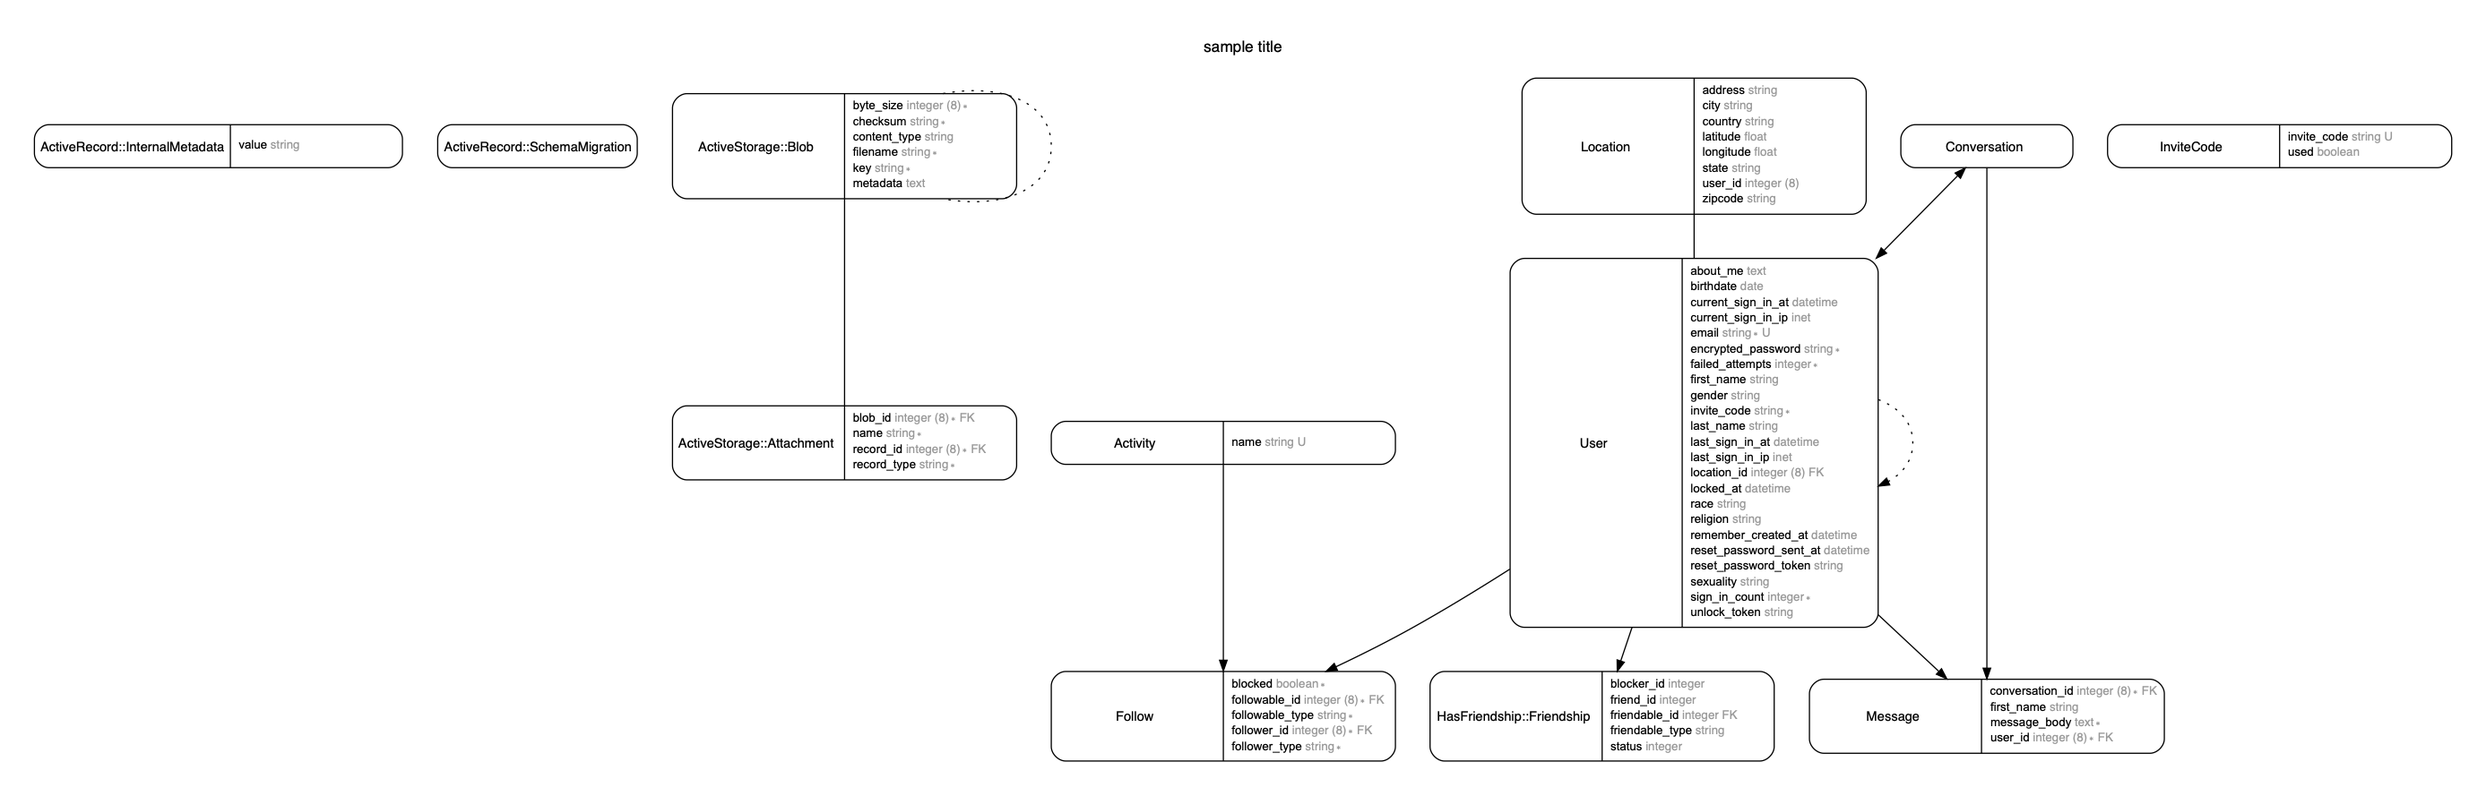
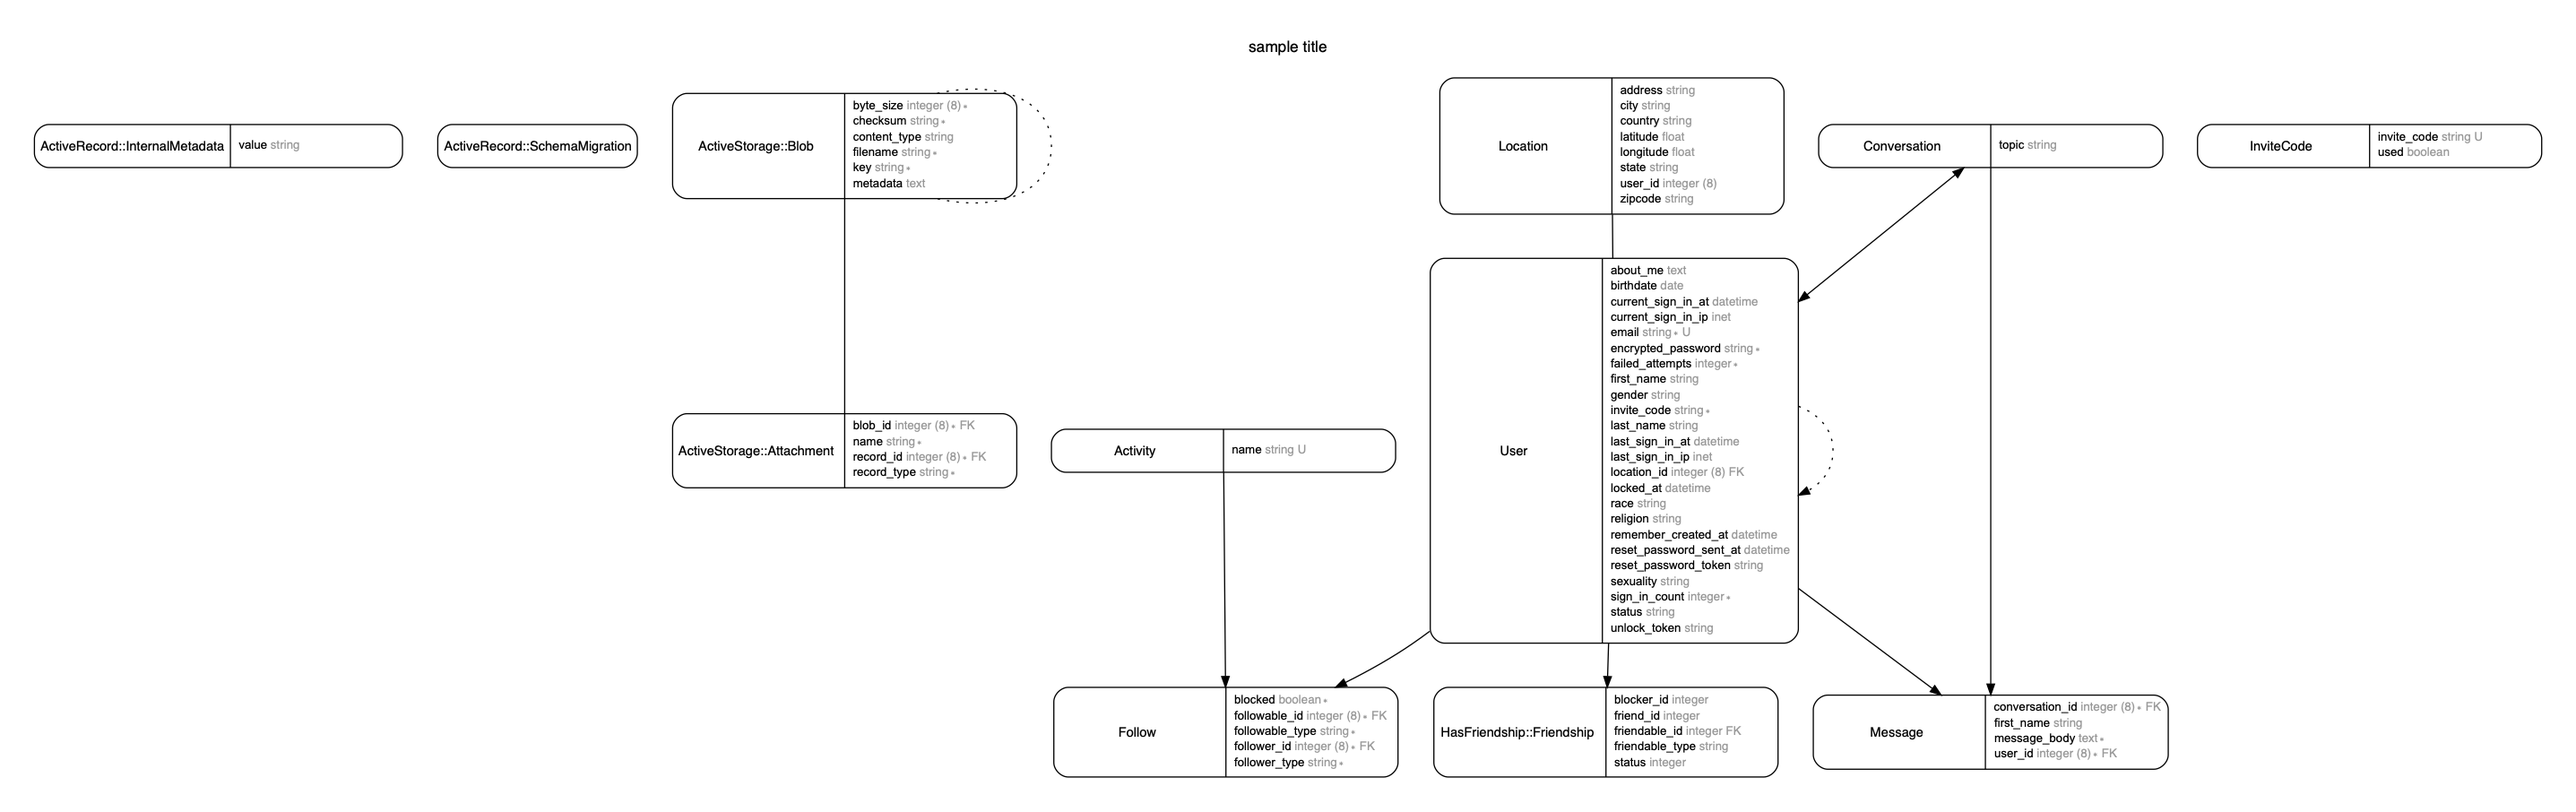
chat rooms for states now complete! Should add status and a members list, or a list to the number of users online.

diff --git a/app/javascript/components/Conversation.js b/app/javascript/components/Conversation.js
@@ -1,50 +1,54 @@
-import React from "react"
-import axios from "axios"
-import PropTypes from "prop-types"
-import "../stylesheets/findafriend.scss"
-import consumer from "../channels/consumer"
+import React from "react";
+import axios from "axios";
+import PropTypes from "prop-types";
+import "../stylesheets/findafriend.scss";
+import consumer from "../channels/consumer";
 
 class Conversation extends React.Component {
   _isMounted = false;
   chatConnection = null;
 
-setup_chat_connection()
-{
-  var conversation_id = this.props.conversation_id
+  setup_chat_connection() {
+    var conversation_id = this.props.conversation_id;
+    var user_id = this.props.user_id;
 
-  this.chatConnection = consumer.subscriptions.create({ channel: "ConversationChannel", conversation_id: conversation_id }, {
+    this.chatConnection = consumer.subscriptions.create(
+      {
+        channel: "ConversationChannel",
+        conversation_id: conversation_id,
+        user_id: user_id
+      },
+      {
+        // can call any ruby channel method using: this.perform(method_name, {params})
+        received(data) {
+          var message_body = data.message_body;
+          var first_name = data.first_name;
 
-    // can call any ruby channel method using: this.perform(method_name, {params})
-    received(data)
-    {
-        var message_body = data.message_body;
-        var first_name = data.first_name;
+          var node = document.createElement("div");
+          node.setAttribute("class", "bg-light");
 
-        var node = document.createElement("div");
-        node.setAttribute('class', 'bg-light');
+          var span_user_name = document.createElement("span");
+          span_user_name.textContent = first_name + ":";
+          span_user_name.setAttribute("class", "text-primary");
+          node.appendChild(span_user_name);
 
-        var span_user_name = document.createElement("span");
-        span_user_name.textContent = first_name + ':';
-        span_user_name.setAttribute('class', 'text-primary');
-        node.appendChild(span_user_name);
+          var span_message_body = document.createElement("span");
+          span_message_body.textContent = message_body;
+          span_message_body.setAttribute("class", "text-secondary");
+          node.appendChild(span_message_body);
 
-        var span_message_body = document.createElement("span");
-        span_message_body.textContent = message_body;
-        span_message_body.setAttribute('class', 'text-secondary');
-        node.appendChild(span_message_body);
+          var br = document.createElement("BR");
+          node.appendChild(br);
 
-        var br = document.createElement('BR')
-        node.appendChild(br);
+          var element = document.getElementById("message_box");
+          element.appendChild(node);
+        }
+      }
+    );
+  }
 
-        var element = document.getElementById("message_box");
-        element.appendChild(node);
-    }
-  })
-}
-
-  constructor(props)
-  {
-    super(props)
+  constructor(props) {
+    super(props);
 
     this.loadData = this.loadData.bind(this);
     this.send_message = this.send_message.bind(this);
@@ -62,99 +66,102 @@ setup_chat_connection()
   componentWillUnmount() {
     this._isMounted = false;
   }
-  
 
   componentDidMount() {
     this._isMounted = true;
     this.loadData();
     this.setup_chat_connection();
   }
-  
-  loadData()
-  {
-  axios({
-      method: 'GET', 
-      url: '/conversations/get_recent_messages',
+
+  loadData() {
+    axios({
+      method: "GET",
+      url: "/conversations/get_recent_messages",
       params: { conversation_id: this.props.conversation_id },
       headers: {
-        'X-CSRF-Token': document.querySelector("meta[name=csrf-token]").content
+        "X-CSRF-Token": document.querySelector("meta[name=csrf-token]").content
       }
-    })
-    .then((response) => {
+    }).then(response => {
       if (this._isMounted) {
         this.setState({
-          messages: response.data.messages    
+          messages: response.data.messages
         });
       }
     });
   }
 
-  handle_key_down(e)
-  {
-    if (e.key === 'Enter') {
+  handle_key_down(e) {
+    if (e.key === "Enter") {
       this.send_message();
     }
   }
 
-  send_message()
-  {
+  send_message() {
     //conversations/create_new_message
-    var message_body = document.getElementById('message_body').value;
+    var message_body = document.getElementById("message_body").value;
     var conversation_id = this.props.conversation_id;
 
     var first_name = this.props.first_name;
 
     axios({
-      method: 'POST', 
-      url: '/conversations/create_new_message',
-      data: { conversation_id: conversation_id, message_body: message_body, first_name: first_name },
+      method: "POST",
+      url: "/conversations/create_new_message",
+      data: {
+        conversation_id: conversation_id,
+        message_body: message_body,
+        first_name: first_name
+      },
       headers: {
-        'X-CSRF-Token': document.querySelector("meta[name=csrf-token]").content
+        "X-CSRF-Token": document.querySelector("meta[name=csrf-token]").content
       }
-    })
-    .then((response) => {
+    }).then(response => {
       if (this._isMounted) {
-        if (response.data.status == "ok")
-        {
-          var first_name =  this.props.first_name;
-          this.chatConnection.send({first_name: first_name, message_body: message_body, conversation_id: conversation_id})
-          var body = document.getElementById('message_body');
+        if (response.data.status == "ok") {
+          var first_name = this.props.first_name;
+          var user_id = this.props.user_id;
+          this.chatConnection.send({
+            user_id: user_id,
+            first_name: first_name,
+            message_body: message_body,
+            conversation_id: conversation_id
+          });
+          var body = document.getElementById("message_body");
           body.value = "";
         }
       }
     });
-    
   }
 
-  render () {
-    var messages = this.state.messages.map((message, index) => {
-      return (
-        <div key={index} className="bg-light">
-        <span className="text-primary">{message.first_name}:</span>
-        <span className="text-secondary"> { message.message_body }</span>
-        <br />
-        </div>
-      );
-    });
+  render() {
+    if (this.state.messages != null) {
+      var messages = this.state.messages.map((message, index) => {
+        return (
+          <div key={index} className="bg-light">
+            <span className="text-primary">{message.first_name}:</span>
+            <span className="text-secondary"> {message.message_body}</span>
+            <br />
+          </div>
+        );
+      });
+    }
 
     return (
       <React.Fragment>
+        <div className="scrollbox border" id="message_box">
+          {messages}
+        </div>
 
-<div className="text-center">
-    <h1>Conversation</h1>
-</div>
-
-<div className="scrollbox border" id="message_box">
- { messages }
-</div>
-
-<div className="scrollbox border">
-  <textarea name="message_body" id="message_body" className="width-100-percent" onKeyDown={this.handle_key_down}></textarea>
-</div>
-
+        <div className="scrollbox border">
+          <textarea
+            name="message_body"
+            id="message_body"
+            className="width-100-percent"
+            onKeyDown={this.handle_key_down}
+          ></textarea>
+        </div>
       </React.Fragment>
     );
   }
 }
 
-export default Conversation
+export default Conversation;

diff --git a/db/schema.rb b/db/schema.rb
@@ -10,7 +10,7 @@
 #
 # It's strongly recommended that you check this file into your version control system.
 
-ActiveRecord::Schema.define(version: 2019_08_30_211330) do
+ActiveRecord::Schema.define(version: 2019_08_31_010028) do
 
   # These are extensions that must be enabled in order to support this database
   enable_extension "plpgsql"
@@ -45,6 +45,7 @@ ActiveRecord::Schema.define(version: 2019_08_30_211330) do
   create_table "conversations", force: :cascade do |t|
     t.datetime "created_at", null: false
     t.datetime "updated_at", null: false
+    t.string "topic"
   end
 
   create_table "conversations_users", id: false, force: :cascade do |t|
@@ -137,6 +138,7 @@ ActiveRecord::Schema.define(version: 2019_08_30_211330) do
     t.string "unlock_token"
     t.datetime "locked_at"
     t.string "invite_code"
+    t.string "status"
     t.index ["email"], name: "index_users_on_email", unique: true
     t.index ["location_id"], name: "index_users_on_location_id"
     t.index ["reset_password_token"], name: "index_users_on_reset_password_token", unique: true

diff --git a/app/controllers/conversations_controller.rb b/app/controllers/conversations_controller.rb
@@ -2,9 +2,21 @@
 
 class ConversationsController < ApplicationController
   before_action :set_conversation, only: %i[show edit update destroy]
+  before_action :logged_in?
+
+  def logged_in?
+    unless user_signed_in?
+      redirect_to root_path, notice: 'You must be logged in to view this page.'
+    end
+  end
+
+  def show_chat_rooms
+    render 'conversations/chatrooms'
+  end
 
   def create_new_message
     convo = Conversation.find params[:conversation_id]
+    puts "convo: #{convo.topic}"
 
     if convo.users.include? current_user
       message_body = params[:message_body]
@@ -23,7 +35,11 @@ class ConversationsController < ApplicationController
 
     redirect_to root_path unless user_signed_in?
 
-    @messages = convo.messages.last(10) if convo.users.include? current_user
+    if convo.users.include? current_user
+      @messages = convo.messages.last(10)
+    elsif !convo.topic.nil?
+      @messages = convo.messages.last(10)
+    end
 
     render json: { messages: @messages }
   end

diff --git a/app/channels/conversation_channel.rb b/app/channels/conversation_channel.rb
@@ -6,7 +6,26 @@ class ConversationChannel < ApplicationCable::Channel
     if params[:conversation_id].present?
       # creates a private chat room with a unique name
       stream_from("Conversation-#{params[:conversation_id]}")
+
+      convo = Conversation.find params[:conversation_id]
+
+      unless convo.nil?
+        user = User.find params[:user_id]
+        user.status = 'Online'
+        user.save!
+        unless convo.users.include? user
+          convo.users << user unless user.nil?
+        end
+      end
+
     end
+  end
+
+  def unsubscribed
+    user = User.find params[:user_id]
+
+    user.status = 'Offline' unless user.nil?
+    user.save!
   end
 
   def receive(data)

diff --git a/db/seeds.rb b/db/seeds.rb
@@ -25,7 +25,15 @@ Activity.create!([
 
 invite_codes = (0...1000).map { { invite_code: SecureRandom.hex(7) } }
 invite_codes = invite_codes.uniq
-               
+
 invite_codes.each do |invite_code|
-  InviteCode.find_or_create_by!( invite_code )
+  InviteCode.find_or_create_by!(invite_code)
+end
+
+CS.update
+
+CS.states(:us).each do |key, _value|
+  convo = Conversation.new
+  convo.topic = key
+  convo.save
 end

diff --git a/db/migrate/20190831010028_add_status_to_users.rb b/db/migrate/20190831010028_add_status_to_users.rb
@@ -1,0 +1,7 @@
+# frozen_string_literal: true
+
+class AddStatusToUsers < ActiveRecord::Migration[5.2]
+  def change
+    add_column :users, :status, :string, optional: true
+  end
+end

diff --git a/config/routes.rb b/config/routes.rb
@@ -5,6 +5,7 @@ Rails.application.routes.draw do
     collection do
       post 'create_new_message'
       get 'get_recent_messages'
+      get 'show_chat_rooms'
     end
   end
 

diff --git a/db/migrate/20190831001635_set_topic_nullable.rb b/db/migrate/20190831001635_set_topic_nullable.rb
@@ -1,0 +1,5 @@
+class SetTopicNullable < ActiveRecord::Migration[5.2]
+  def change
+    change_column :conversations, :topic, :string, null: true
+  end
+end

diff --git a/db/migrate/20190831000958_add_topic_to_conversation.rb b/db/migrate/20190831000958_add_topic_to_conversation.rb
@@ -1,0 +1,5 @@
+class AddTopicToConversation < ActiveRecord::Migration[5.2]
+  def change
+    add_column :conversations, :topic, :string
+  end
+end
